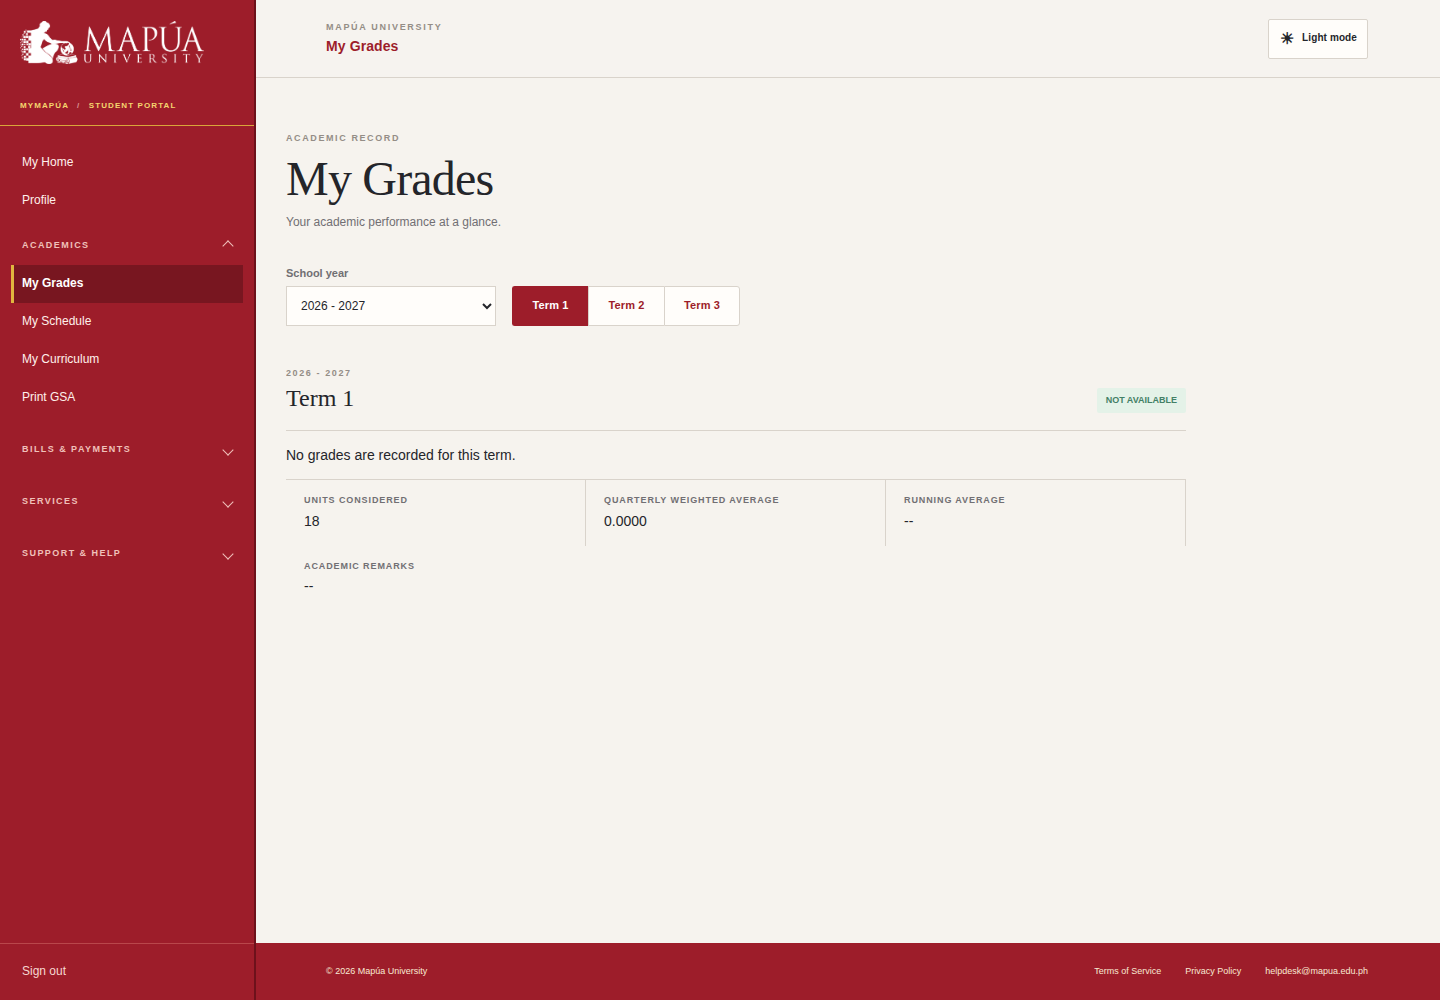
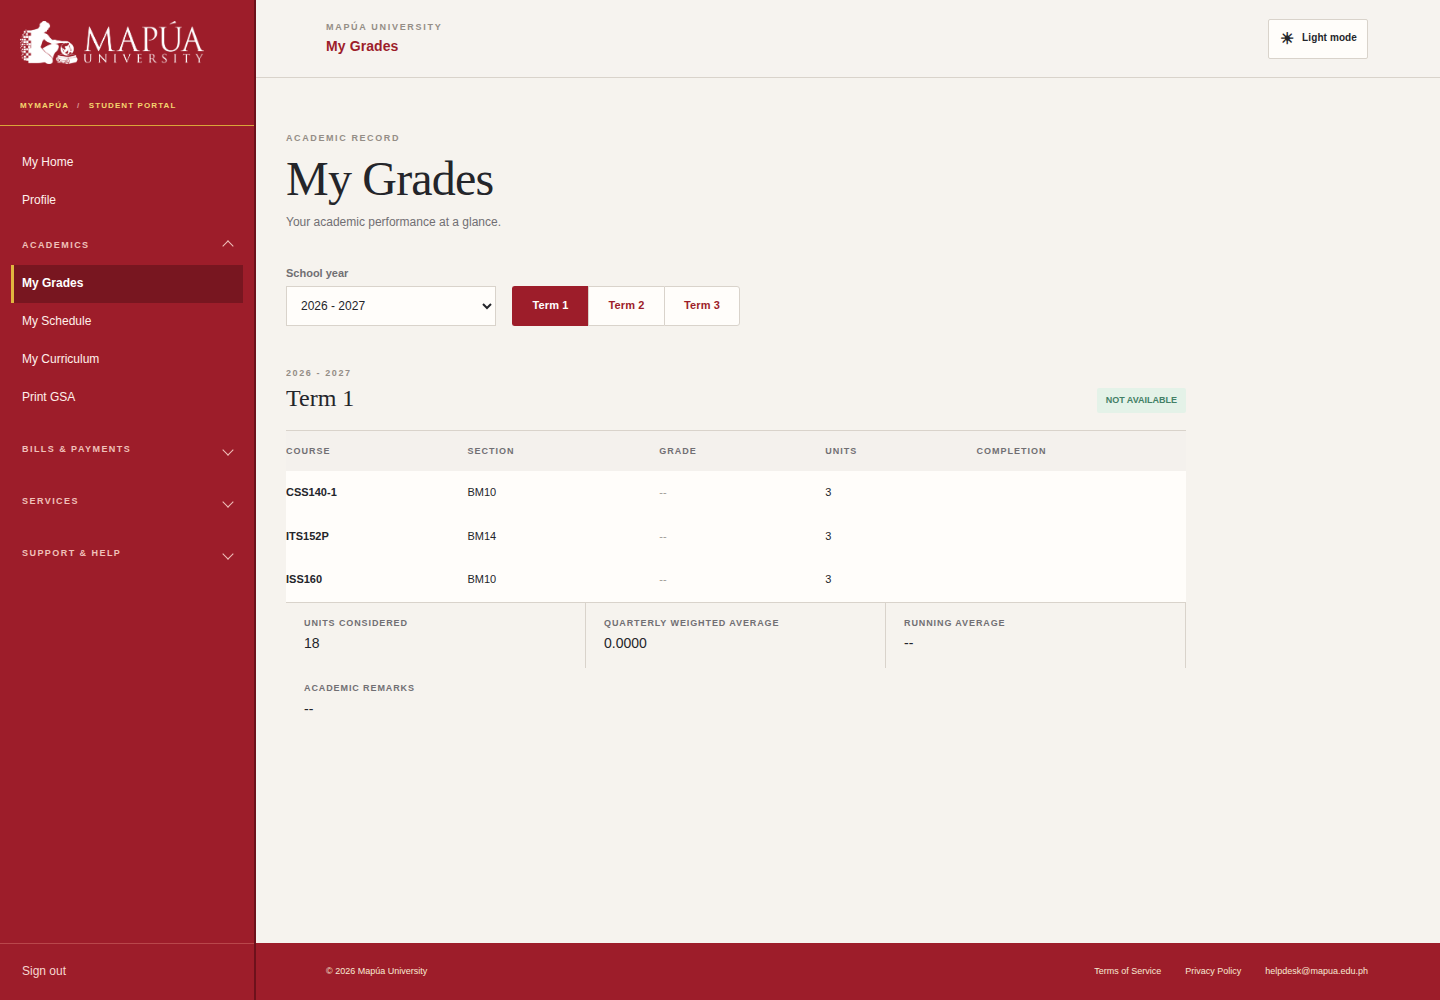
restore term 1 grades

diff --git a/script.js b/script.js
@@ -110,7 +110,7 @@ function curriculumTermTable(term, rows, totals, year = 3) { return `<section cl
 function coreCourseTerms() { return `${curriculumTermTable('Term 1', [['CSS140-1','Artificial Intelligence','4.5','-','3','CSS130-1'],['ISS160','Project Management','4.5','-','3','CSS123P'],['ITS142P','Human Computer Interaction 2','3','4.5','3','ITS141-1'],['ITS152P','Systems Integration and Architecture 2','3','4.5','3','ITS151P'],['ITS165-1','Information Security and Assurance 1','4.5','-','3','CSS131P, ITS161-1L']], ['19.5','9','15'])}${curriculumTermTable('Term 2', [['ITS120P','Application Development and Emerging Technologies','3','4.5','3','CSS123P'],['ITS150P','Operating Systems','3','4.5','3','ITS112P'],['ITS166P','Information Security and Assurance 2','3','4.5','3','ITS165-1'],['RZL110','The Life and Works of Rizal','4.5','-','3','']], ['13.5','13.5','12'])}${curriculumTermTable('Term 3', [['CSS153P','Software Quality','3','4.5','3','ITS142P'],['IE103-2','Technopreneurship 101','4.5','-','3',''],['ITS109-1','Research Methods in Information Technology','4.5','-','3','ITS152P'],['ITS153P','Systems Administration and Maintenance','3','4.5','3','ITS152P, ITS163-1L']], ['15','9','12'])}${curriculumTermTable('Term 4', [['ITS105-1','Social and Professional Issues','4.5','-','3','CSS123P, GED107'],['ITS199-1R','Practicum 1','4.5','-','3',''],['ITS200-01','Thesis 1','1.5','-','1','ITS109-1']], ['10.5','0','7'])}`; }
 const gradeHistory = {
   '2026 - 2027': {
-    'Term 1': [],
+    'Term 1': [['CSS140-1', 'BM10', '--', '3'], ['ITS152P', 'BM14', '--', '3'], ['ISS160', 'BM10', '--', '3']],
   },
   '2025 - 2026': {
     'Term 1': [['CSS123P', 'BM1', '1.75', '3'], ['CSS131-1', 'BM1', '2.00', '3'], ['GED108', 'AM12', '1.25', '3'], ['ISS120', 'BM1', '1.50', '3'], ['ITS162-1L', 'AM2', '2.25', '2'], ['MATH170', 'EM01', '3.00', '3'], ['PCC150', 'BM6', '1.25', '3']],
